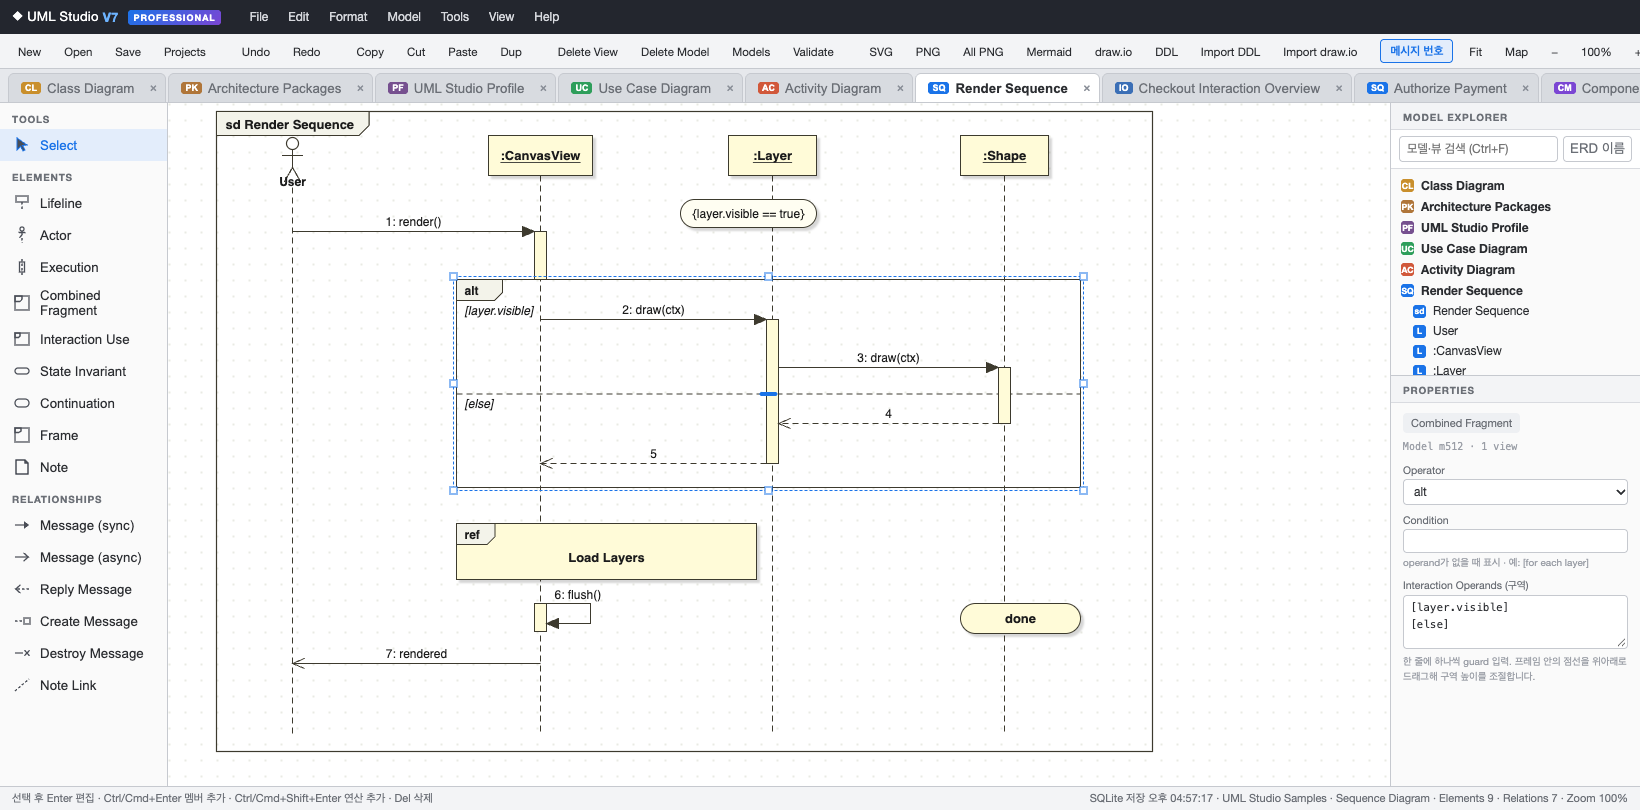
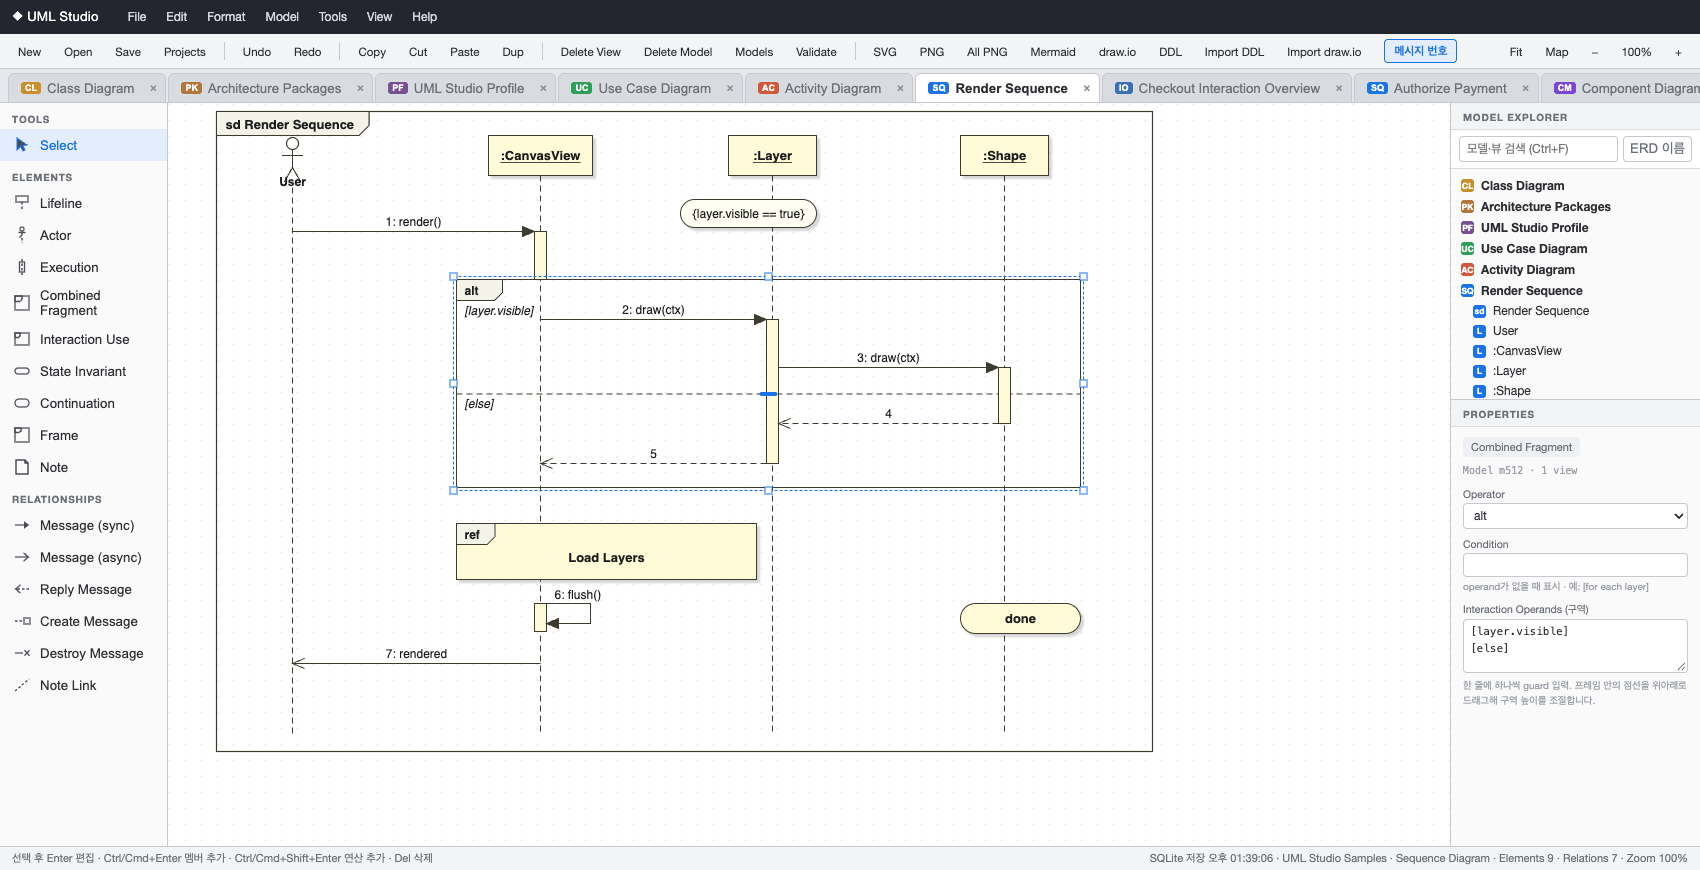
fix(editor): simplify branding and refresh README screenshots

diff --git a/src/app.ts b/src/app.ts
@@ -1,7 +1,7 @@
 'use strict';
 
 /* ═══════════════════════════════════════════════════════════════
-   UML Studio V7 Professional — web diagram editor
+   UML Studio — web diagram editor
    UML 2.5: Class · Use Case · Activity · Sequence · Component ·
    Deployment · State Machine · Package · Profile · Interaction Overview ·
    Information Flow · SysML Requirement · SysML Block Definition ·
@@ -476,13 +476,13 @@ function markDirty() {
   state.dirty = true;
   projectStore.markRecoveryDirty();
   state.validationStale = true;
-  document.title = `● ${state.projectName} — UML Studio V7 Professional`;
+  document.title = `● ${state.projectName} — UML Studio`;
   validationPanelController.updateSummary();
   scheduleRecoverySave();
 }
 function markSaved() {
   state.dirty = false;
-  document.title = `${state.projectName} — UML Studio V7 Professional`;
+  document.title = `${state.projectName} — UML Studio`;
   renderStatus();
 }
 
@@ -919,7 +919,7 @@ const commands = {
   zoomin() { setZoom(state.zoom * 1.2); },
   zoomout() { setZoom(state.zoom / 1.2); },
   zoomreset() { setZoom(1); },
-  about() { alert('UML Studio V7 Professional\nWeb modeler · Project format v30'); },
+  about() { alert('UML Studio\nWeb modeler · Project format v30'); },
 };
 
 register({ commands });

diff --git a/src/io/exporters.ts b/src/io/exporters.ts
@@ -1098,7 +1098,7 @@ function createExporters(erdCardinalityApi: ExportCardinalityApi, erdColumnApi: 
     }
 
     const lines = [
-      '-- Generated by UML Studio V7 Professional',
+      '-- Generated by UML Studio',
       `-- Dialect: ${dialect.label}`,
     ];
     if (tables.some(table => table.columns.some(column => column.isForeignKey
@@ -1523,7 +1523,7 @@ function createExporters(erdCardinalityApi: ExportCardinalityApi, erdColumnApi: 
     const pageHeight = Math.max(1100, ...diagram.elements.map(element => (element.y || 0) + (element.h || 48) + 80));
     return [
       '<?xml version="1.0" encoding="UTF-8"?>',
-      '<mxfile host="app.diagrams.net" agent="UML Studio V7 Professional" version="24.7.17" compressed="false">',
+      '<mxfile host="app.diagrams.net" agent="UML Studio" version="24.7.17" compressed="false">',
       `  <diagram id="${xmlEscape(`diagram_${diagram.id || '1'}`)}" name="${xmlEscape(diagram.name || 'Diagram')}" umlDiagramType="${xmlEscape(diagram.type || 'class')}">`,
       `    <mxGraphModel dx="0" dy="0" grid="1" gridSize="10" guides="1" tooltips="1" connect="1" arrows="1" fold="1" page="1" pageScale="1" pageWidth="${pageWidth}" pageHeight="${pageHeight}" math="0" shadow="0">`,
       '      <root>',

diff --git a/index.html b/index.html
@@ -3,13 +3,13 @@
 <head>
 <meta charset="utf-8">
 <meta name="viewport" content="width=device-width, initial-scale=1">
-<title>UML Studio V7 Professional</title>
+<title>UML Studio</title>
   <link rel="stylesheet" href="styles.css?v=27">
 </head>
 <body>
 <div id="app">
   <div id="menubar">
-    <span class="logo">◆ UML Studio <b>V7</b><em class="edition">PROFESSIONAL</em></span>
+    <span class="logo">◆ UML Studio</span>
     <div class="menu-list" role="menubar" aria-label="주 메뉴" aria-orientation="horizontal">
       <span class="menu" id="menubar-trigger-file" data-menu="file" role="menuitem" aria-haspopup="true" aria-expanded="false" tabindex="0">File</span>
       <span class="menu" id="menubar-trigger-edit" data-menu="edit" role="menuitem" aria-haspopup="true" aria-expanded="false" tabindex="-1">Edit</span>

diff --git a/styles.css b/styles.css
@@ -34,12 +34,6 @@ body {
   color: #fff; font-size: 13px; margin-right: 18px; letter-spacing: .2px;
   display: flex; align-items: center; gap: 4px;
 }
-#menubar .logo b { color: #6db3ff; }
-#menubar .edition {
-  font-style: normal; font-size: 9px; font-weight: 700; letter-spacing: 1px;
-  background: linear-gradient(135deg,#1a73e8,#7b46d3);
-  color: #fff; border-radius: 3px; padding: 2px 5px; margin-left: 6px;
-}
 #menubar .menu-list { display: flex; align-items: center; gap: 2px; }
 #menubar .menu {
   padding: 4px 9px; border-radius: 4px; cursor: pointer; font-size: 12px; outline: none;

diff --git a/tests/exporters.test.js b/tests/exporters.test.js
@@ -631,7 +631,7 @@ const relation = (id, kind, from, to, extra) => ({
   };
 
   const postgres = exportErdDdl(diagram, models, 'postgresql');
-  assert.match(postgres, /^-- Generated by UML Studio V7 Professional\n-- Dialect: PostgreSQL/m);
+  assert.match(postgres, /^-- Generated by UML Studio\n-- Dialect: PostgreSQL/m);
   assert.equal((postgres.match(/CREATE TABLE/g) || []).length, 1, '같은 의미 모델의 중복 뷰는 한 번만 내보냅니다');
   assert.match(postgres, /CREATE TABLE IF NOT EXISTS "account" \(/);
   assert.match(postgres, /"tenant_id" NUMERIC\(19\) NOT NULL/);

diff --git a/src/model/sample-diagrams.ts b/src/model/sample-diagrams.ts
@@ -1475,7 +1475,7 @@ function createSampleDiagramsModule() {
     }
 
     function sampleMindmap() {
-      const root = NE({ kind: 'mindnode', name: 'UML Studio V7', x: 432, y: 264, fill: '#ffd9a0' });
+      const root = NE({ kind: 'mindnode', name: 'UML Studio', x: 432, y: 264, fill: '#ffd9a0' });
       const d1 = NE({ kind: 'mindnode', name: 'Diagrams', x: 216, y: 152, fill: '#d7e6f7' });
       const d2 = NE({ kind: 'mindnode', name: 'Editing', x: 216, y: 384, fill: '#dff0d8' });
       const d3 = NE({ kind: 'mindnode', name: 'Export', x: 688, y: 152, fill: '#fce4ec' });

diff --git a/README.md b/README.md
@@ -74,9 +74,9 @@ For a static preview, run `npm run preview` and open [http://127.0.0.1:8765](htt
 
 Choose **Import DDL** to preview a `.sql` file and add it to the current project as a new ER diagram. The preview lists tables, columns, foreign-key links, `CHECK` constraints, indexes, and any import warnings. From an ER diagram, choose **DDL** to export `CREATE TABLE` statements for PostgreSQL, MySQL, or SQLite.
 
-![ER diagram exported from UML Studio showing customers, orders, order items, and products linked by foreign keys](docs/images/sql-import-erd.png)
+![UML Studio displaying an imported ER diagram with customers, orders, order items, and products linked by foreign keys](docs/images/sql-import-erd.png)
 
-_An online store schema imported from SQL and exported as an ER diagram._
+_An online store schema imported from SQL into the ER diagram editor._
 
 - The importer handles common PostgreSQL, MySQL, and SQLite `CREATE TABLE` syntax, including primary keys, `NOT NULL`, single-column foreign keys, `UNIQUE`, `DEFAULT`, `CHECK`, and simple column indexes. It parses files up to 10 MB in the browser without executing SQL.
 - The column editor exposes single-column uniqueness and defaults. The entity properties expose `CHECK`, composite `UNIQUE`, and regular or unique indexes. Relationship properties expose `ON DELETE` and `ON UPDATE` actions. `SET NULL` requires a nullable FK column. `SET DEFAULT` requires a default for a non-nullable FK column, and MySQL export rejects that action because the target is InnoDB.
